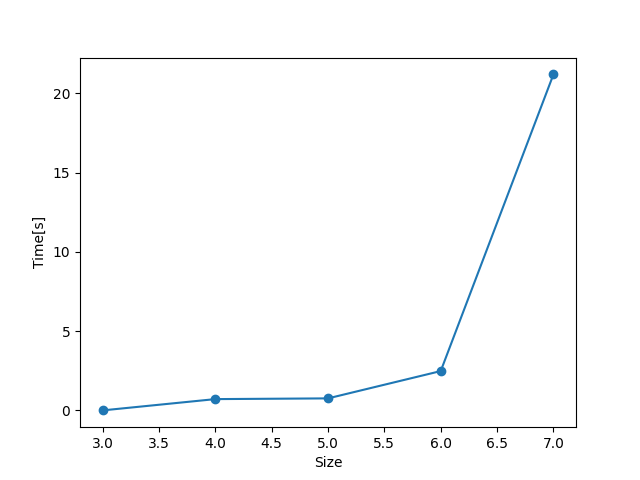
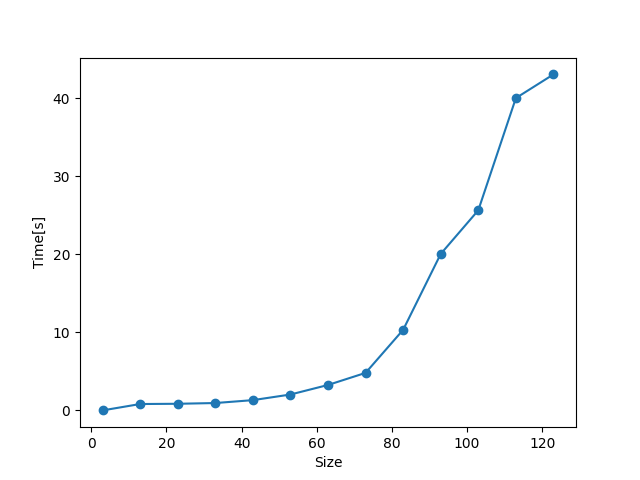
latex plot update

diff --git a/report/proba.tex b/report/proba.tex
@@ -164,6 +164,7 @@ Finally, IDS timed out because a plan length of 16 steps requires it to wipe its
 \end{figure}
 \section{Exercise 2.2: Problem Builder in Python}
 \begin{figure}[H]
+Test run with lama-first alias
     \centering
     \includegraphics[width=0.9\textwidth]{Figure_2_cost} 
     \caption{Size of the problem and the time required to find a solution in the tests}
